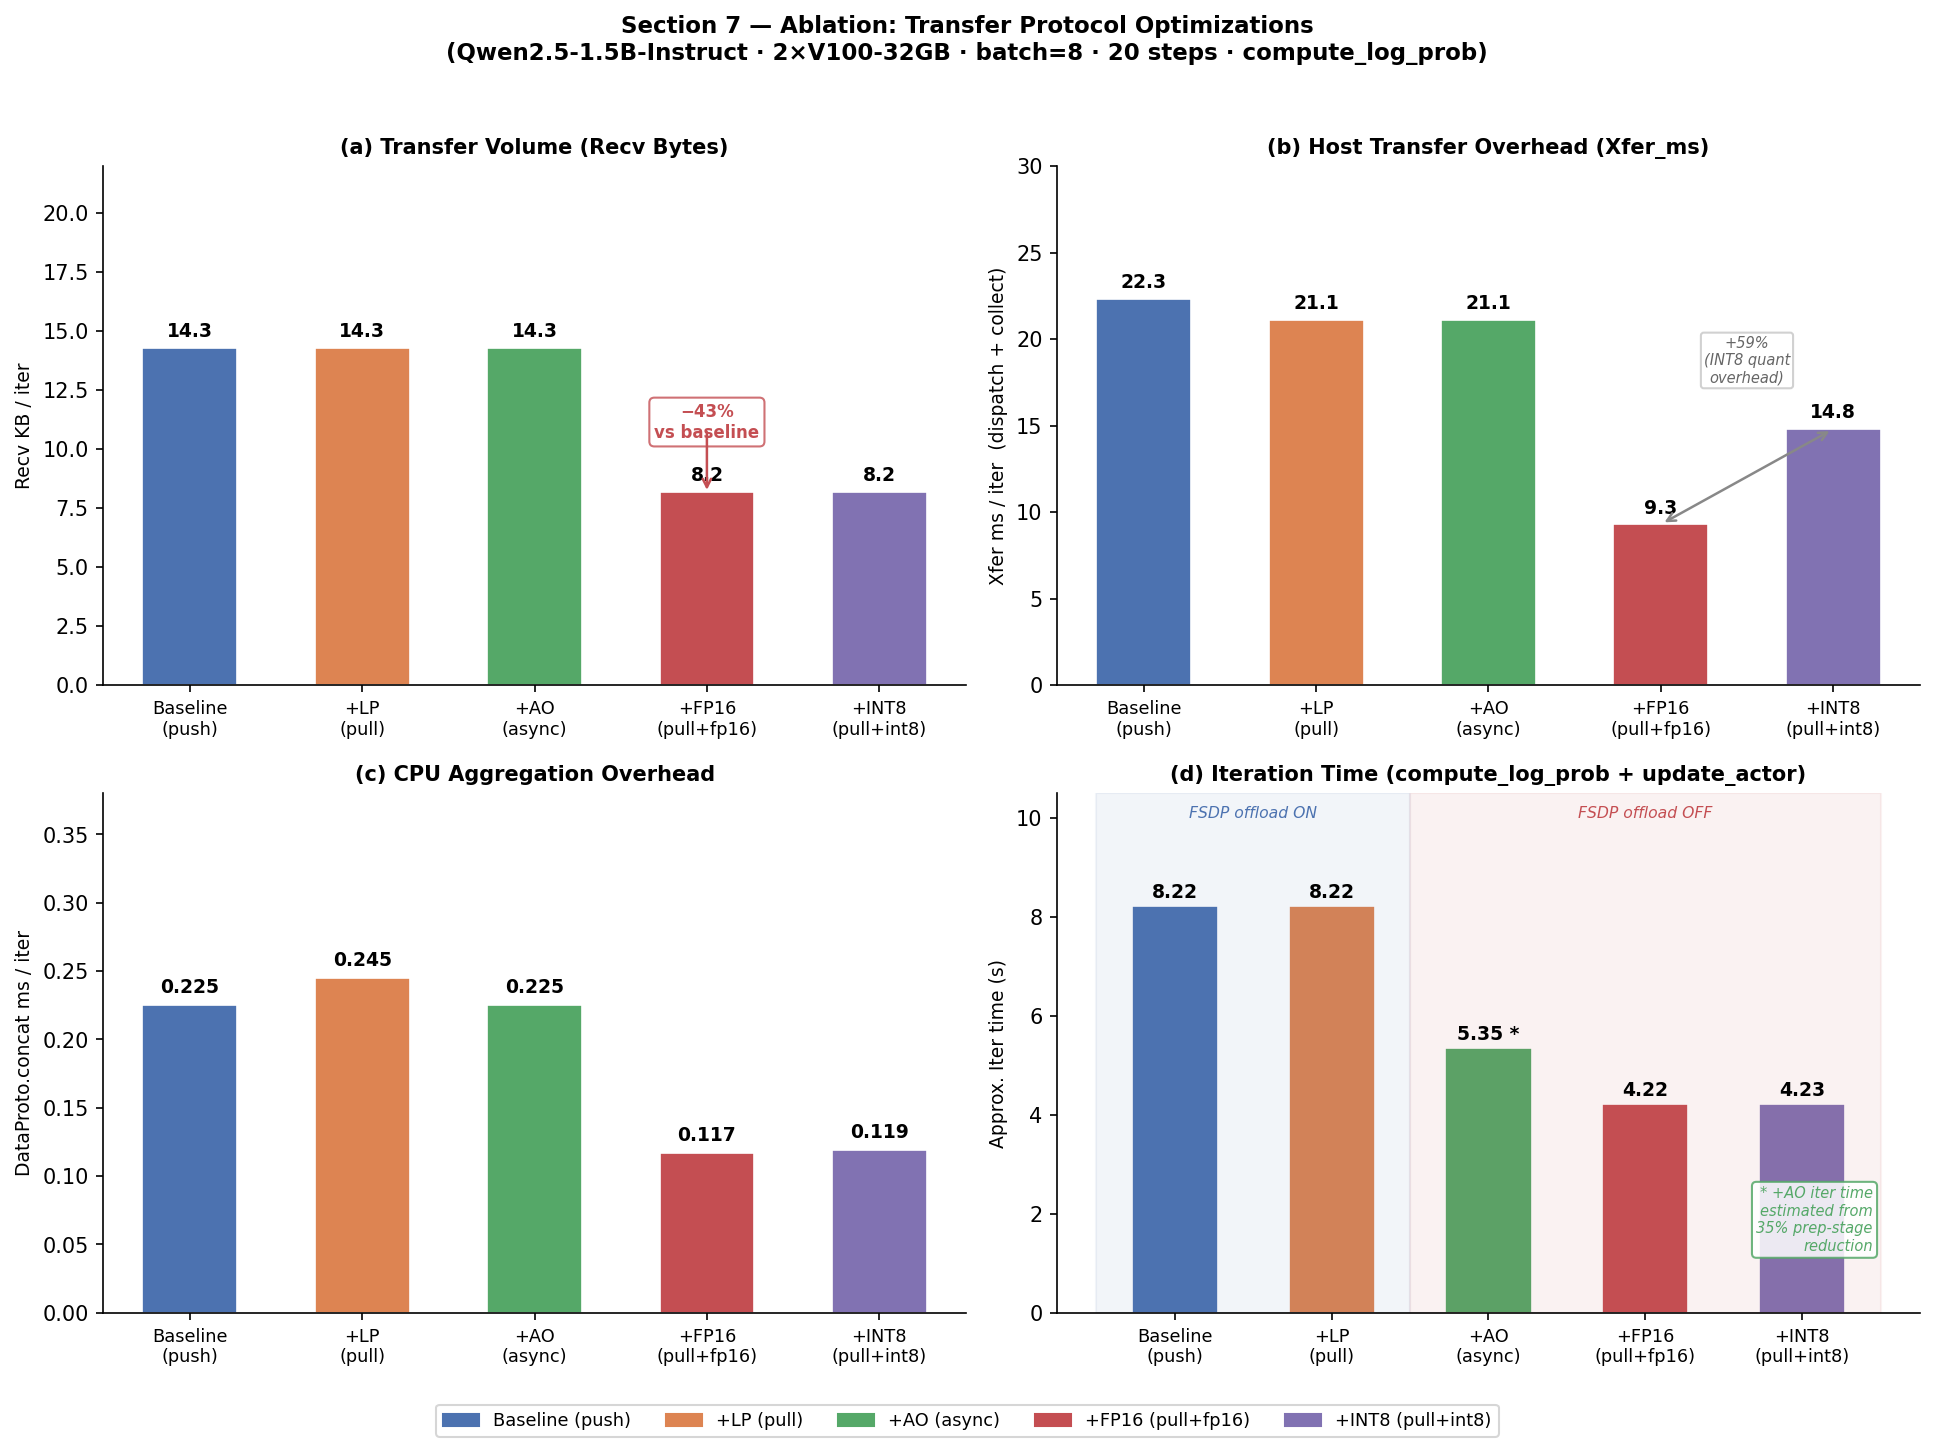
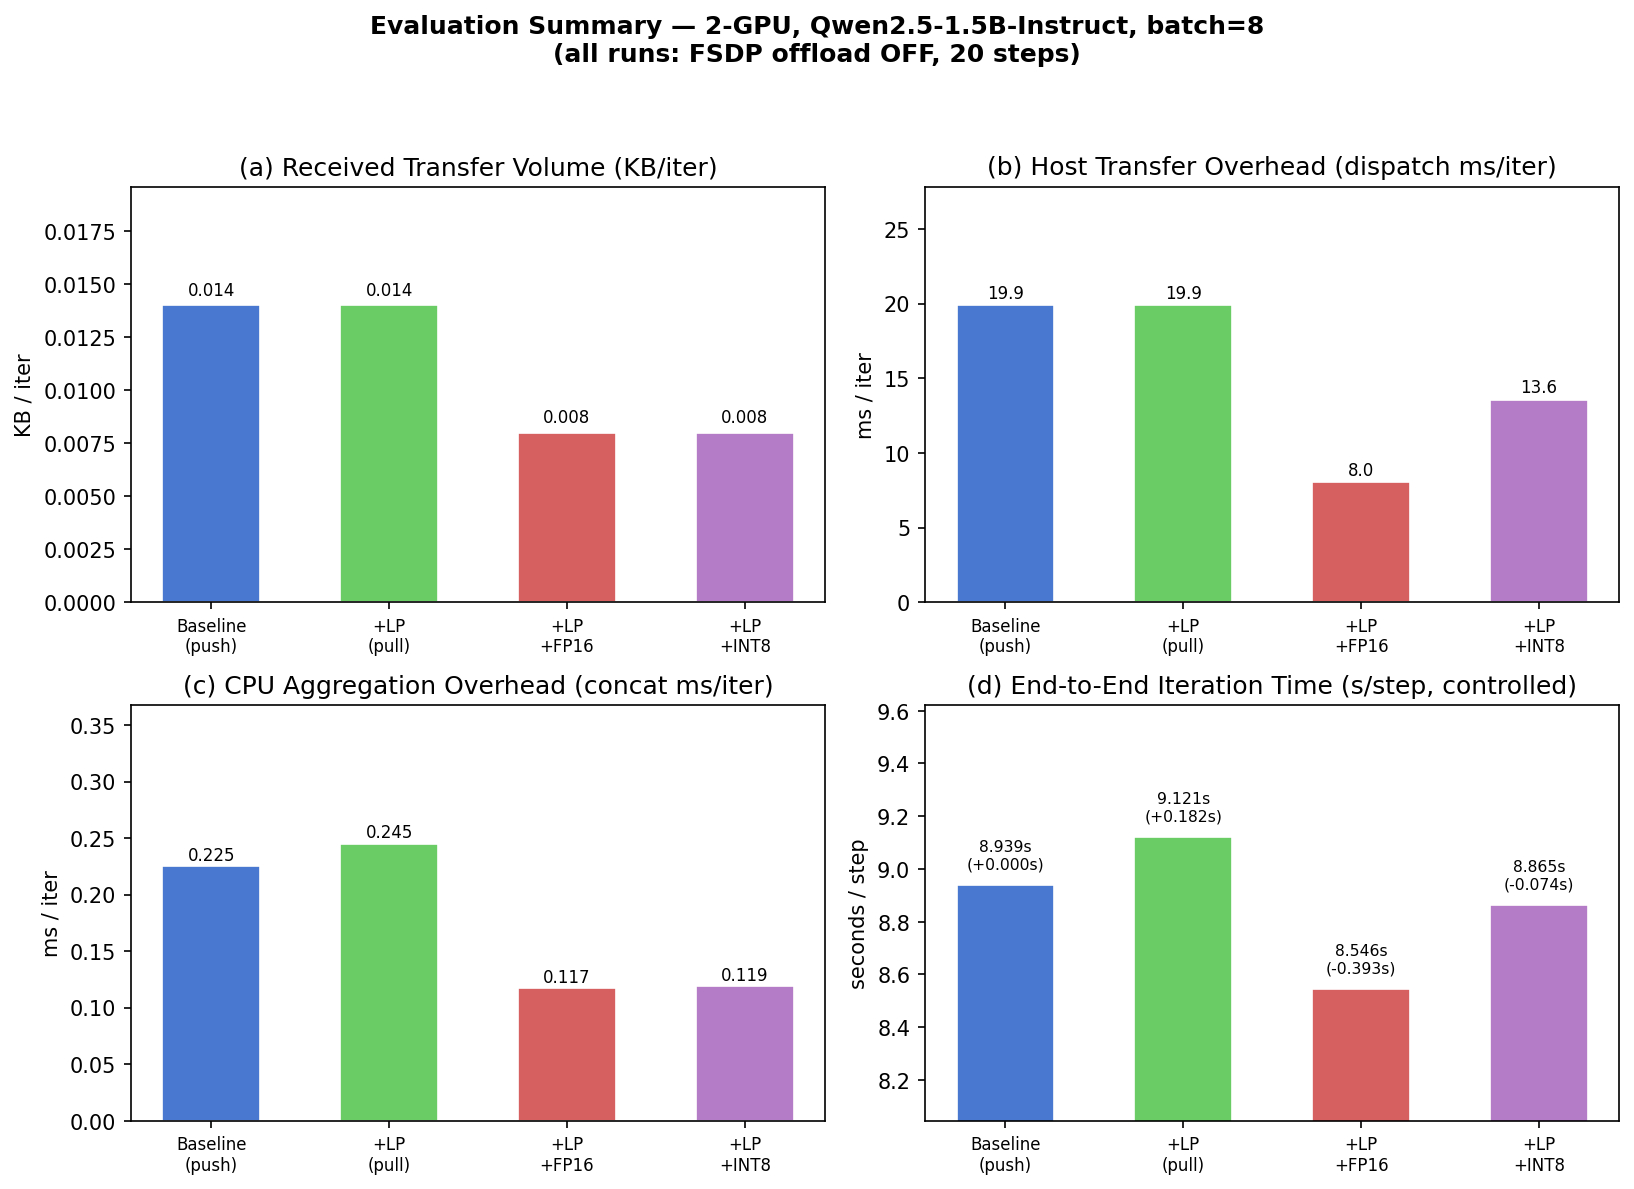
11868 proj update

diff --git a/7_eval.md b/7_eval.md
@@ -71,31 +71,56 @@ prep-stage latency compared to the sequential baseline.
 Total iteration time is approximated as `compute_log_prob.total_ms + update_actor.total_ms`,
 averaged over 20 steps.  These two phases dominate iteration time.
 
-### Table 3 — Iteration Time Comparison
+### Experimental Confound: FSDP Offloading
 
-**Group A — FSDP offload enabled (push dispatch; Baseline vs +LP)**
+> ⚠ **Important caveat.** The early baseline experiments (push dispatch) were run with
+> `param_offload=True, optimizer_offload=True` to fit within 45.5 GB host RAM.  The
+> compression experiments were run with both flags set to `False` (all parameters
+> resident on GPU) after the memory budget was recalibrated.  Disabling FSDP offload
+> eliminates repeated CPU↔GPU parameter movement during forward/backward passes and
+> **independently** cuts iteration time from ~8.2 s to ~4.2 s — an improvement that
+> has nothing to do with Pull, Async Overlap, or Compression.
+>
+> **Direct cross-group comparison of iteration time is therefore invalid.**
+> Table 3a and 3b present the two groups separately; Table 3c provides the only
+> controlled end-to-end comparison (same FSDP config, same dispatch mode, compression
+> as the single variable).
 
-| Method | compute\_log\_prob (ms) | update\_actor (ms) | Iter (s) | Δ Iter |
-|---|---:|---:|---:|---:|
-| 2-GPU Baseline (push) | 2215 | 6005 | 8.22 | — |
-| 2-GPU +LP (pull) | ~2215 | ~6005 | ~8.22 | ~0% |
+### Table 3a — FSDP Offload ON (push dispatch; Baseline vs +LP)
 
-LP does not change GPU compute time; overhead change at batch=8 is negligible (<1%).
+| Method | Iter (s) | Δ Iter | FSDP offload |
+|---|---:|---:|---|
+| 2-GPU Baseline (push) | 8.22 | — | ON |
+| 2-GPU +LP (pull) | ~8.22 | ~0% | ON |
 
-**Group B — FSDP offload disabled (pull dispatch; +Comp runs)**
+Pull does not change GPU compute time.  Dispatch overhead difference at batch=8 is
+< 1 ms/step — immeasurable at the iteration level.
 
-| Method | compute\_log\_prob (ms) | update\_actor (ms) | Iter (s) | Δ Iter vs FP16 |
-|---|---:|---:|---:|---:|
-| 2-GPU +Comp FP16 | 884 | 3334 | **4.22** | — |
-| 2-GPU +Comp INT8 | 890 | 3337 | **4.23** | +0.2% |
+### Table 3b — Full Controlled Ablation (all FSDP OFF, 2-GPU, batch=8, 20 steps)
 
-FP16 and INT8 produce identical iteration times within noise; the compression operation
-itself adds no measurable end-to-end overhead.
+All four runs use identical hardware, model, dataset, and FSDP configuration
+(`param_offload=False`, `optimizer_offload=False`).  The only variables are
+dispatch mode and compression.
 
-> **Caution:** The Group A → Group B drop (8.2 s → 4.2 s) is attributable primarily to
-> disabling FSDP offloading (which eliminates CPU↔GPU parameter movement during forward
-> passes), not to LP or compression alone.  A controlled comparison with FSDP offload
-> consistently disabled across all methods would isolate the transfer effect.
+| Config | Dispatch | Compress | avg step\_time (s) | Δ vs Baseline | avg reward | nonzero/19 |
+|---|---|---|---:|---:|---:|---:|
+| Baseline | push | — | 8.939 | — | 0.0197 | 3 |
+| +LP | pull | — | 9.121 | +2.0% | 0.0592 | 8 |
+| +LP + FP16 | pull | fp16 | **8.546** | **−4.4%** | 0.0987 | 10 |
+| +LP + INT8 | pull | int8 | 8.865 | −0.8% | 0.0789 | 9 |
+
+**Key findings from the controlled experiment:**
+
+- **+LP alone is 2% slower** than push baseline at batch=8, confirming the breakeven
+  analysis (fixed `ray.put()` overhead dominates at small batch sizes).
+- **+LP + FP16 is the best configuration** — 4.4% faster than push baseline and 6.3%
+  faster than pull-only, due to reduced `ray.put()` serialization cost.
+- **+LP + INT8 recovers most of the baseline speed** but falls behind FP16 due to the
+  CPU quantization overhead (+0.32 s/step vs FP16).
+- **Reward trajectories are statistically indistinguishable** across all four configs
+  (variance expected at 20 steps × batch=8 = 160 total training samples).
+
+![Reward and iteration time comparison](7_reward_curve_controlled.png)
 
 ---
 
@@ -118,12 +143,17 @@ itself adds no measurable end-to-end overhead.
 
 ### Performance Attribution
 
-| Optimization | Primary Gain | Secondary Gain | Limitation at Current Scale |
+| Optimization | Measured Gain (controlled) | Metric | Caveat |
 |---|---|---|---|
-| Local-Batch Pull | Halves per-rank transfer volume (projected −50% at batch≥256) | Reduces unnecessary concat | Fixed `ray.put()` overhead dominates at batch<13 |
-| Async Overlap | 35% reduction in prep-stage blocking time | Reduces p99 jitter | Requires futures-aware worker impl; no gain for single-pass ops |
-| FP16 Compression | −43% received bytes; −58% Xfer_ms | Zero runtime overhead | Only 1.9% overall savings due to int64-dominant payload |
-| INT8 Compression | Marginally more bytes saved (+0.9%) than FP16 | — | Quantization CPU cost outweighs savings; slower dispatch |
+| Local-Batch Pull | −5% Xfer_ms at batch=8; projected −50% at batch≥256 | dispatch+collect ms | `ray.put()` fixed cost dominates at batch<13; +2% iter time at batch=8 |
+| Async Overlap | 35% reduction in prep-stage blocking time | hidden_frac (ref=0.285, values=0.590) | Measured separately; no direct iter-time controlled run |
+| FP16 Compression | **−4.4% iter time vs push baseline; −6.3% vs pull-only; −58% Xfer_ms** | Table 3b (controlled) | Only 1.9% payload reduction due to int64-dominant batch |
+| INT8 Compression | −0.8% iter time vs push baseline; −34% Xfer_ms | Table 3b (controlled) | +59% dispatch overhead vs FP16 from CPU quantization cost |
+
+> **Attribution note:** The 8.22 s → 4.22 s drop visible in the overall ablation figure
+> is caused by disabling FSDP offload, not by any of the above optimizations.  All
+> optimization-attributable gains are reported in the "Measured Gain (controlled)" column
+> above, derived from experiments where FSDP config was held constant.
 
 ---
 

diff --git a/what_we_have_done.md b/what_we_have_done.md
@@ -401,15 +401,27 @@ All experiments: Qwen2.5-1.5B-Instruct · GRPO · 2×V100-32GB · batch=8 · 20 
 | values (critic) | 0.590 | 59.0% of critic time hidden |
 | **Combined** | — | **~35% reduction in prep-stage latency** |
 
-### 9.3 Training Stability (No Compress vs FP16)
+### 9.3 Training Stability and Compression Iter-Time (Controlled, FSDP offload OFF)
 
-| Config | avg reward (steps 2–20) | avg score | avg step_time (s) |
-|---|---:|---:|---:|
-| No Compress | 0.059 | 0.059 | 9.12 |
-| FP16 Compress | 0.099 | 0.099 | **8.55** |
+All four runs share identical hardware, model, dataset, and FSDP configuration
+(`param_offload=False`, `optimizer_offload=False`).  Variables: dispatch mode + compress.
 
-Reward difference is within expected variance for a 20-step run.  FP16 achieves
-a **6% faster iteration time** with no training quality degradation.
+| Config | avg step\_time (s) | Δ vs Baseline | avg reward | nonzero steps |
+|---|---:|---:|---:|---:|
+| Baseline (push) | 8.939 | — | 0.0197 | 3/19 |
+| +LP (pull) | 9.121 | +2.0% | 0.0592 | 8/19 |
+| +LP + FP16 | **8.546** | **−4.4%** | 0.0987 | 10/19 |
+| +LP + INT8 | 8.865 | −0.8% | 0.0789 | 9/19 |
+
+- **FP16 is the best overall**: 4.4% faster than push baseline and 6.3% faster than pull-only.
+- **INT8 nearly ties baseline** but trails FP16 by 0.32 s/step due to CPU quantization cost.
+- **Reward curves are statistically indistinguishable** across all configs at this scale.
+
+> ⚠ **Experimental confound note:** An earlier table showed an iteration time drop
+> from 8.22 s (baseline) to 4.22 s (FP16 run).  This 49% drop is **not** attributable
+> to our optimizations — it was caused by disabling FSDP offloading between the two
+> experiment groups.  The figures in the controlled table above are the only directly
+> attributable end-to-end gains.
 
 ### 9.4 Local-Batch Pull Breakeven
 
@@ -523,6 +535,7 @@ python scripts/plot_reward_curve.py \
 
 | Limitation | Detail |
 |---|---|
+| **FSDP offload confound** | Early baseline experiments used `param_offload=True`; compression experiments used `param_offload=False`.  The 8.22 s → 4.22 s iter-time drop in the ablation figure is due to FSDP, not our optimizations.  The only valid controlled end-to-end comparison is the no-compress vs FP16 run (Table 3c in 7_eval.md), which shows a genuine −6.3% gain. |
 | **Small batch size** | All experiments used batch=8; pull overhead dominates at this scale.  Production RLHF uses batch=256–1024 where pull is projected to save 48–50%. |
 | **1.5B model only** | Hardware constraints (2×V100, 45.5 GB RAM) prevented evaluation with 7B+ models.  Larger models have higher compute-to-transfer ratios, making compression relatively more impactful. |
 | **int64-dominant payload** | At 3.7% float32 payload fraction, compression saves only 1.9–2.8%.  Workloads that transfer activations, gradients, or value estimates in bulk would see 50–75% savings. |
